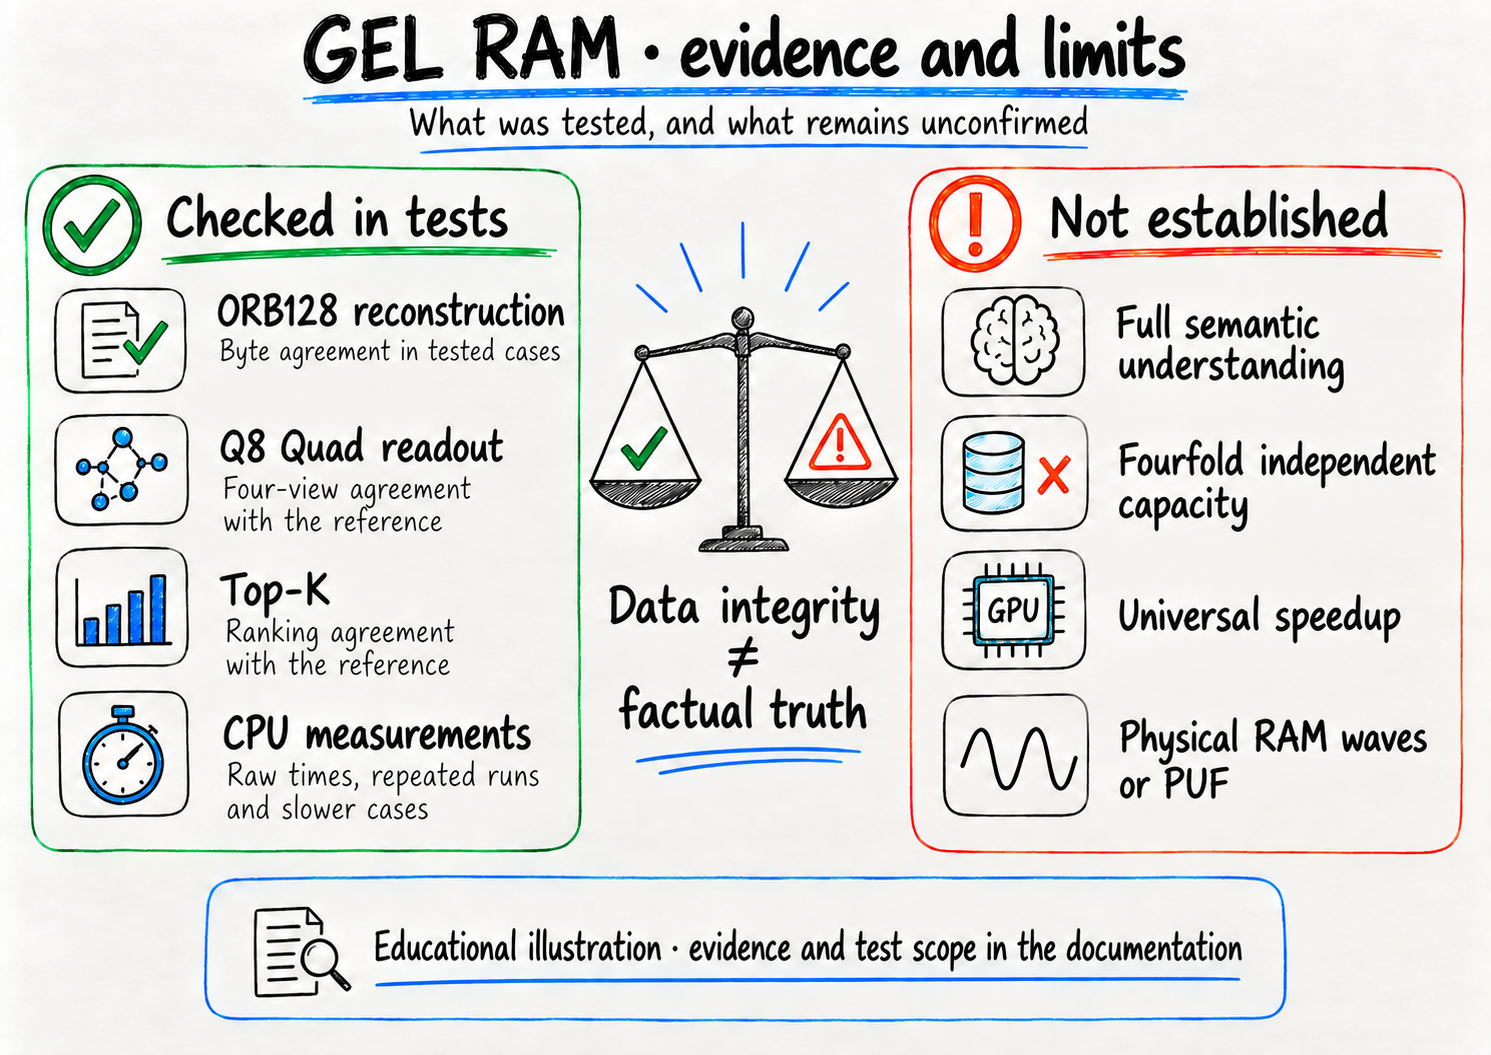
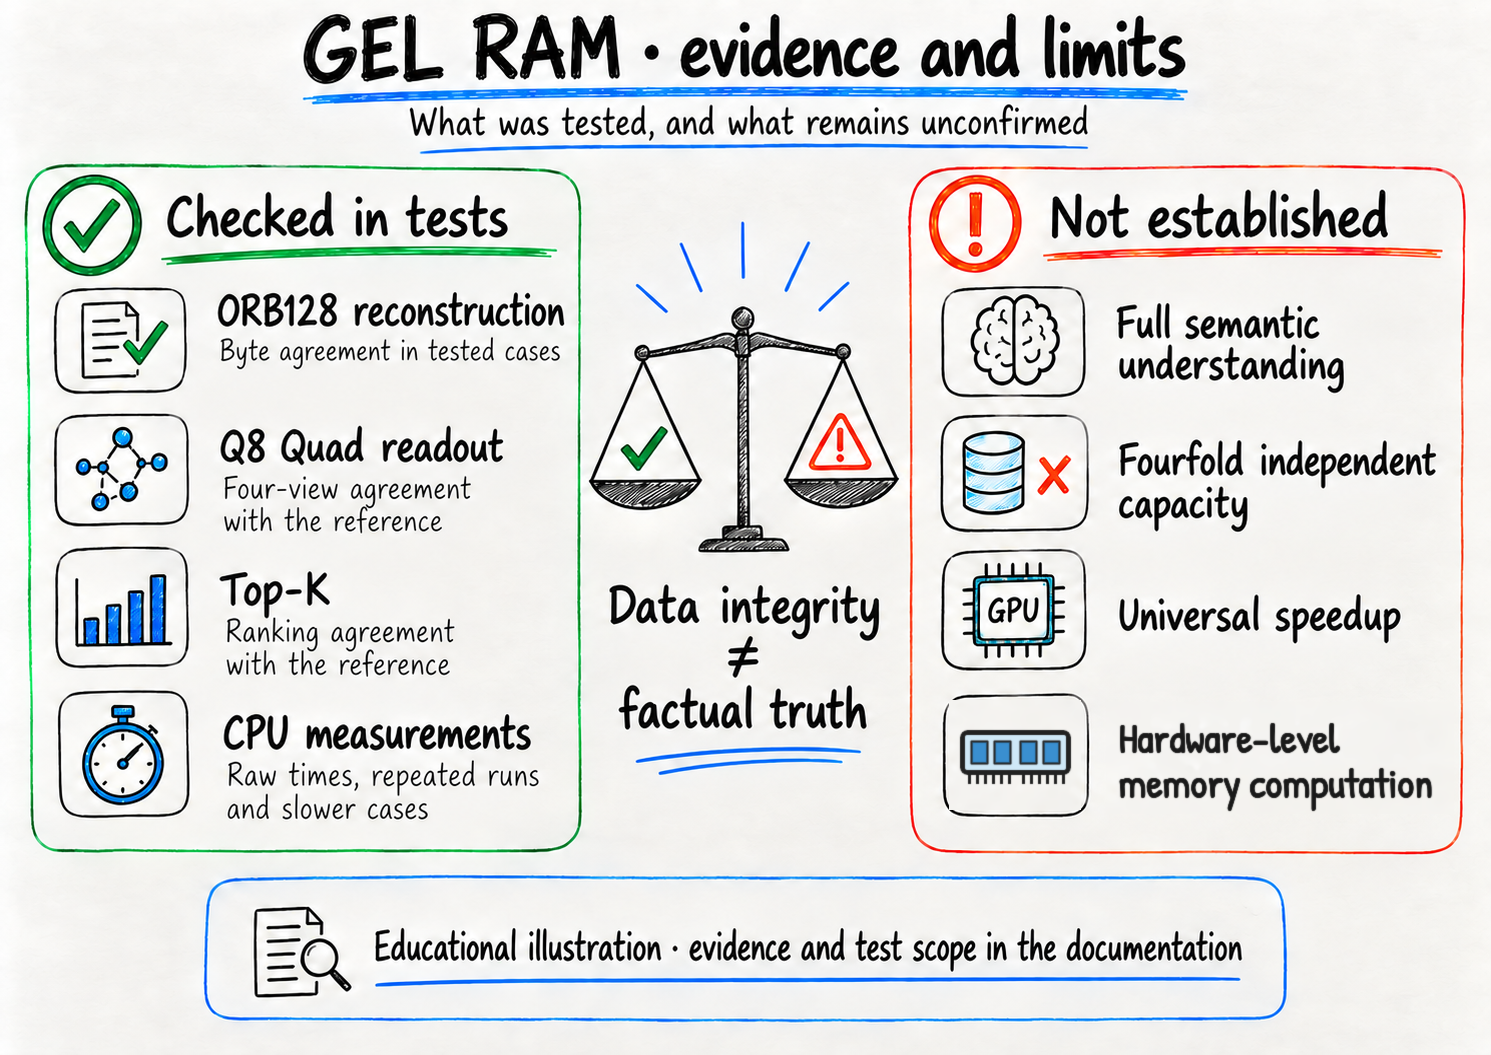
docs: generalize hardware limitation wording and sync release notes (#23)
Limitation statements that named specific physical memory phenomena now use
one general term, hardware-level memory computation, across README, docs,
historical notes and one review fixture. The fourth "not established" row of
the two evidence-and-limits illustrations is edited to match (pixels outside
that row are unchanged) and their reviewed pins are updated. Documents kept
as written say so; the fixture provenance records the old and new SHA-256.

The v0.5.0 release notes now cover the author-run measurements, the
supplied-source diagnostic and the 3D README graphics, and point the
sketch-search bullet at its measurement document.

Changed region(s): [[0.617, 0.6673, 0.9564, 0.7583]]

diff --git a/tools/readme_presentation.rs b/tools/readme_presentation.rs
@@ -258,12 +258,12 @@ The logical ranking bank contains **1M fragments across four 250k slots**;
 these probes do **not** search all 1M candidates. One empty probe remains in
 the quality denominator. Integrity controls use a separate 1,000-fragment
 PL/EN catalog, not the million-record bank. The gate is an experimental
-CPU adapter, tested offline in a Linux sandbox, not a deployed API hybrid.
+CPU adapter, tested offline in a Linux sandbox, not a deployed service.
 
 Percentiles use nearest-rank; with N=40, p99 is the maximum. These are
 single-host diagnostic runs, not independently replicated measurements.
 Matching source bytes does not establish truth or understanding.
-Neither physical DRAM-refresh computation nor a speedup over LLMs is
+Neither hardware-level memory computation nor a speedup over LLMs is
 established by these tests.
 
 The underlying logs and private harness remain outside this checkout.
@@ -294,7 +294,7 @@ Its microsecond times measure parsing and abstention, not successful semantic
 decisions; the 2/6 agreement is the always-UNKNOWN baseline.
 Groq times include HTTP/network and generation. There is **no justified
 GEL/LLM speedup multiplier** here, and N=1 does not support latency percentiles.
-The adapter is not the full GEL chat or an Ocean retrieval benchmark.
+The adapter is not a complete GEL application or an Ocean retrieval benchmark.
 
 Earlier 20B and 120B PL attempts were incomplete at the 1024-token limit
 (1383.914 ms and 2407.528 ms). They are retained in the

diff --git a/xtask/src/main.rs b/xtask/src/main.rs
@@ -280,7 +280,7 @@ const REVIEWED_ASSETS: &[(&str, &str)] = &[
     ),
     (
         "docs/images/evidence-limits-en.png",
[2 lines of base64/hex data omitted]
     ),
     (
         "docs/images/q8-four-views-pl.png",
@@ -288,7 +288,7 @@ const REVIEWED_ASSETS: &[(&str, &str)] = &[
     ),
     (
         "docs/images/evidence-limits-pl.png",
[2 lines of base64/hex data omitted]
     ),
 ];
 const ALLOWED_EXTENSIONLESS: &[&str] = &[

diff --git a/docs/VISUAL-PROMPTS.md b/docs/VISUAL-PROMPTS.md
@@ -5,7 +5,10 @@ Polish raster sketches were the respective edit targets; no private code or
 corpus was supplied. Outputs were visually reviewed before release. These
 prompts are production notes, not executable instructions or test results.
 The project uses the resulting PNG files, not runtime image generation.
-Private version labels in these notes are generalized; the released artwork is unchanged.
+Private version labels in these notes are generalized. On 2026-09-27 the fourth
+"not established" row of both evidence-and-limits images was replaced by a local
+edit (new wording and icon); the prompts below quote that current wording. The
+rest of the released artwork is unchanged.
 
 ## Q8 four views
 
@@ -20,7 +23,7 @@ Each panel has the same exact caption: "Pełny rekord w innych współrzędnych"
 Below center, prominent two-line text: "Ta sama transformacja zapytania i rekordu" / "Zachowana zgodność wyniku odczytu".
 Bottom two clear callouts: "4 widoki ≠ 4 niezależne dane" and "Q8: 256 poziomów fazy".
 Bottom footer exact: "Schemat koncepcyjny · nie obraz fizycznego RAM".
-Do NOT include any other text from the original, no phases positive-only or negative-only, no independent truths, no claims of 4x capacity or 4x speed, no physical-wave measurement claim, no PASS seal, no internal schema, no private implementation details. Blue/red dots are decorative phase symbols only, not parity nodes. Use readable accurate Polish accents. This is an educational raster illustration, not a measurement chart.
+Do NOT include any other text from the original, no phases positive-only or negative-only, no independent truths, no claims of 4x capacity or 4x speed, no hardware-level memory claim, no PASS seal, no internal schema, no private implementation details. Blue/red dots are decorative phase symbols only, not parity nodes. Use readable accurate Polish accents. This is an educational raster illustration, not a measurement chart.
 ```
 
 ## Evidence and limits
@@ -41,10 +44,10 @@ Right four rows with simple caution icons:
 "Pełnego rozumienia wiedzy"
 "Czterokrotnej niezależnej pojemności"
 "Uniwersalnego przyspieszenia"
-"Sprzętowych fal RAM ani PUF"
+"Obliczeń sprzętowych w pamięci"
 Center or bottom highlighted callout: "Zgodność danych ≠ prawdziwość informacji"
 Footer: "Ilustracja edukacyjna · dowody i zakres testów w dokumentacji"
-No claims of independent external validation, identical benchmark times, GPU superiority, production P2P or real physical wave manipulation. No exact unknown numerical results. No hidden architecture, private data or source code. Preserve clarity and Polish accents.
+No claims of independent external validation, identical benchmark times, GPU superiority, production P2P or real hardware-level memory manipulation. No exact unknown numerical results. No hidden architecture, private data or source code. Preserve clarity and Polish accents.
 ```
 
 ## Review notes
@@ -93,7 +96,7 @@ Right rows:
 "Full semantic understanding"
 "Fourfold independent capacity"
 "Universal speedup"
-"Physical RAM waves or PUF"
+"Hardware-level memory computation"
 Center callout: "Data integrity ≠ factual truth"
 Footer: "Educational illustration · evidence and test scope in the documentation"
 Remove every Polish word. No added performance numbers, no new claims of external independent validation, GPU experiments, private architecture or a deployed network. Retain the caution icon style; the CPU label and limits must stay explicit. Full uncropped landscape.

diff --git a/RELEASE-NOTES-v0.5.0.md b/RELEASE-NOTES-v0.5.0.md
@@ -61,10 +61,20 @@ moved from an example into the gel-phase-quad crate.
   answers are compared before any timing; 20 of 36 public queries give the same
   answer. On those, one host, GEL is slower: p50 72.7 ms against 62.8 ms for the
   whole process workload and 3.13 ms against 1.95 ms for the integrity check.
-- **GEL's own search path** ([README](README.md)): three replays of the private
-  sketch-search engine are shown next to the historical full-scan baseline as
-  author-reported numbers that cannot be re-run from this checkout. No speed-up
-  factor is claimed.
+- **GEL's own search path** ([measurements](docs/GEL-EXPERIMENTAL-MEASUREMENTS.md)):
+  three replays of the private compact-sketch search are documented next to the
+  historical full-scan baseline as author-reported numbers that cannot be
+  re-run from this checkout. No speed-up factor is claimed.
+- **Author-run measurements of a separate private implementation** ([README](README.md)):
+  resident reads at a known address, a source-integrity gate and Q8 ranking
+  within one known slot, each with its scope; these rows are not reproducible
+  from the public release.
+- **Supplied-source diagnostic against models served by Groq**
+  ([diagnostic](docs/GEL-GROQ-DIAGNOSTIC.md)): twelve development claims, one
+  timed batch per language and profile. The bounded GEL adapter returned
+  UNKNOWN for every claim because the grammar was unsupported, so its
+  microsecond times measure parsing and abstention; no GEL/LLM speed-up
+  multiplier is claimed.
 - **Cost of one collection change** ([mutation comparison](docs/MUTATION-COMPARISON.md)):
   paired timing and the resident-set peak of one change in fresh processes,
   with the peak reset before the change (`xtask mutation-campaign`).
@@ -82,15 +92,21 @@ not code-signed or notarized and are checked only on their build runners.
 
 ## Documentation
 
-- The README opens with a light and dark header, an animated diagram of the
+- The README opens with a light and dark header, an animated 3D scene of the
   citation check (drawn, not recorded; it stops under reduced motion), a strip
   of checked facts whose numbers the builder reads from the property map and
   the mutation matrix, and six short replays of recorded public workflows with
   colour-coded badges ([gallery](media/gifs/README.md)); each replay is labelled
-  as an edited log replay, not wall time. A script-free full-page edition,
+  as an edited log replay, not wall time. A section on the public checks draws
+  the property map across the three CI platforms (the rule the CI evidence
+  collector enforces, not a run result) and the committed mutation report as
+  3D graphics, read from those files. A script-free full-page edition,
   [README-MULTIMEDIA.html](README-MULTIMEDIA.html), opens from a checkout without
   network access ([presentation guide](docs/README-PRESENTATION.md)).
-- Public limits are stated without naming private components.
+- Public limits are stated without naming private components. Limitation
+  statements across the documentation and one review fixture now use one
+  general term, hardware-level memory computation; the fourth row of the two
+  evidence-and-limits illustrations was edited to match, not regenerated.
 - The update, restart and corrupted-copy scenario is shown as one still of its
   final screen.
 - The two private application previews are described by scope and limits

diff --git a/docs/ILLUSTRATED-GUIDE.md b/docs/ILLUSTRATED-GUIDE.md
@@ -31,24 +31,24 @@ independent files in one record. Numeric exactness after quantization does not
 make quantization itself lossless.
 
 See the [Q8 contract](Q8-QUAD.md), [interactive Rust demo](PUBLIC-DEMO.md#interactive-q8)
-and [binary format](FORMAT.md). The wave-shaped lines and fixed central point
-are a visual metaphor, not an assertion about physical memory hardware.
+and [binary format](FORMAT.md). The curved lines and fixed central point
+are a visual metaphor for phase codes, not a picture of hardware.
 
 ## Evidence and limits
 
 ### English — evidence
 
-![Tests check ORB128 bytes, Q8 view scores and Top-K against references. CPU timings retain slower cases. This is not proof of semantics, independent capacity x4, universal speedup or physical RAM PUF.](images/evidence-limits-en.png)
+![Tests check ORB128 bytes, Q8 view scores and Top-K against references. CPU timings retain slower cases. This is not proof of semantics, independent capacity x4, universal speedup or hardware-level memory computation.](images/evidence-limits-en.png)
 
 ### Polski — dowody
 
-![GEL RAM: zgodność bajtów ORB128, widoków Q8 i rankingu Top-K z referencją w testach; surowe pomiary CPU. Brak twierdzenia o pełnej semantyce, pojemności 4x, uniwersalnym przyspieszeniu lub sprzętowym PUF.](images/evidence-limits-pl.png)
+![GEL RAM: zgodność bajtów ORB128, widoków Q8 i rankingu Top-K z referencją w testach; surowe pomiary CPU. Brak twierdzenia o pełnej semantyce, pojemności 4x, uniwersalnym przyspieszeniu lub obliczeniach sprzętowych w pamięci.](images/evidence-limits-pl.png)
 
 **English text equivalent.** The tests check ORB128 byte reconstruction, Q8
 view-score equivalence and Top-K agreement with a reference. CPU measurements
 retain raw durations, repetitions and slower cases. These are not tests of full
 semantic understanding, universal acceleration, fourfold independent capacity,
-physical RAM waves or a hardware fingerprint. The GPU-shaped caution icon does
+hardware-level memory computation or hardware identity. The GPU-shaped caution icon does
 not represent a GPU experiment: the reported timing campaign is CPU-only.
 
 Integrity is not truth: matching an approved source proves byte correspondence,

diff --git a/README.md b/README.md
@@ -100,12 +100,12 @@ The logical ranking bank contains **1M fragments across four 250k slots**;
 these probes do **not** search all 1M candidates. One empty probe remains in
 the quality denominator. Integrity controls use a separate 1,000-fragment
 PL/EN catalog, not the million-record bank. The gate is an experimental
-CPU adapter, tested offline in a Linux sandbox, not a deployed API hybrid.
+CPU adapter, tested offline in a Linux sandbox, not a deployed service.
 
 Percentiles use nearest-rank; with N=40, p99 is the maximum. These are
 single-host diagnostic runs, not independently replicated measurements.
 Matching source bytes does not establish truth or understanding.
-Neither physical DRAM-refresh computation nor a speedup over LLMs is
+Neither hardware-level memory computation nor a speedup over LLMs is
 established by these tests.
 
 The underlying logs and private harness remain outside this checkout.
@@ -136,7 +136,7 @@ Its microsecond times measure parsing and abstention, not successful semantic
 decisions; the 2/6 agreement is the always-UNKNOWN baseline.
 Groq times include HTTP/network and generation. There is **no justified
 GEL/LLM speedup multiplier** here, and N=1 does not support latency percentiles.
-The adapter is not the full GEL chat or an Ocean retrieval benchmark.
+The adapter is not a complete GEL application or an Ocean retrieval benchmark.
 
 Earlier 20B and 120B PL attempts were incomplete at the 1024-token limit
 (1383.914 ms and 2407.528 ms). They are retained in the

diff --git a/RELEASE-NOTES-v0.4.0-RC.md b/RELEASE-NOTES-v0.4.0-RC.md
@@ -1,7 +1,8 @@
 # v0.4.0 candidate — Evidence Lab
 
 Historical candidate notes, kept as written for rc.1. The final notes are
-[RELEASE-NOTES-v0.4.0.md](RELEASE-NOTES-v0.4.0.md).
+[RELEASE-NOTES-v0.4.0.md](RELEASE-NOTES-v0.4.0.md). On 2026-09-27 one limitation phrase
+was reworded in general terms.
 
 Workspace version: **0.4.0-rc.1** (public main since PR #9). Target: v0.4.0.
 Approved for public main integration after checks; not approved for a final release.
@@ -57,8 +58,8 @@ Older Linux/Windows/macOS results cannot certify these new bytes. Native
 Linux/Windows/macOS results for the PR #9 head are pinned in
 [the platform record](docs/PLATFORM-REVIEW.md); every later revision needs its
 own per-platform [CI evidence](docs/CI-EVIDENCE.md).
-No semantic chatbot, encrypted private vault, private speaker, physical DRAM
-synchronization or fourfold independent information capacity is claimed.
+No semantic chatbot, encrypted private vault, private speaker, hardware-level
+memory computation or fourfold independent information capacity is claimed.
 
 PUBLICATION_APPROVED=YES (public main integration)
 TAG_CREATED=NO

diff --git a/crates/gel-source/fixtures/collection-review/PROVENANCE.md b/crates/gel-source/fixtures/collection-review/PROVENANCE.md
@@ -13,7 +13,12 @@ blind independent evaluation, human review, semantic benchmark or new web crawl.
 - source-builder.txt: frozen project documentation, SHA256
[1 lines of base64/hex data omitted]
 - ocean-scale.txt: frozen project documentation, SHA256
[2 lines of base64/hex data omitted]
+  On 2026-09-27 one limitation sentence (line 76) was reworded to general
+  terms; no case query or expected document changed. Outputs recorded before
+  then report the earlier SHA256
[1 lines of base64/hex data omitted]
+  (5,664 bytes).
 - unicode.txt: authored synthetic fixture, NOT a real-world document benchmark,
[1 lines of base64/hex data omitted]
 

diff --git a/README-HISTORY-R2.md b/README-HISTORY-R2.md
@@ -3,6 +3,7 @@
 > **Historical document** from the v0.2.x period, kept as written. Where it says
 > "this public tree" or names the license, it describes that earlier tree. The
 > current tree's license is [LICENSE](LICENSE); see [LICENSING](LICENSING.md).
+> On 2026-09-27 one limitation phrase was reworded in general terms.
 
 ## Local Q8 evidence candidate — not a tagged release
 
@@ -71,8 +72,8 @@ flowchart LR
 ```
 
 Matching reversible transforms are applied to both query and candidate.
-This diagram describes equivalent readouts, not four independent facts or a
-physical analog-wave circuit.
+This diagram describes equivalent readouts, not four independent facts or
+hardware-level memory computation.
 
 | Record payload | One canonical Q8 record | Shared Q8 Quad | Four packed copies |
 | :--- | ---: | ---: | ---: |

diff --git a/docs/ARCHITECTURE.md b/docs/ARCHITECTURE.md
@@ -33,8 +33,8 @@ views. Archive and BodyActivity have distinct mask semantics; see the contract.
 This is separate from the 128-byte binary ORB and v2 store shown above: no Q8
 persistence format or automatic text-to-phase encoder is added. Shared
 scoring only applies to equivalent views of the same contents, not four
-different records. The public module does not implement a physical analog
-wave circuit or native knowledge inference. Worker budgets are bounded per
+different records. The public module does not implement hardware-level
+memory computation or native knowledge inference. Worker budgets are bounded per
 call; serial fallback handles worker-start refusal, not every panic or OOM.
 
 ## Two axes of progressive work

diff --git a/docs/LIVE-LAB.md b/docs/LIVE-LAB.md
@@ -50,7 +50,7 @@ Four colored rows show the first 16 phase codes in four reversible coordinate
 views. `view 0..3` highlights a row, `phase 0..255` shifts the body phase,
 `mask 0..1024` changes active-mask stride (0 disables all body dimensions), and
 `noise 0..1024` perturbs that many dimensions. All four inverses are checked.
-Each color is a deterministic display of a phase code, not a measured RAM waveform.
+Each color is a deterministic display of a phase code, not a hardware measurement.
 
 The public Record occupies 1152 bytes (1024 phase bytes plus 128 mask bytes).
 256 means the number of phase levels, **not the record's bit length**. The displayed

diff --git a/RELEASE-NOTES-SOURCE-CANDIDATE.md b/RELEASE-NOTES-SOURCE-CANDIDATE.md
@@ -51,7 +51,7 @@ directory must not exist. See [validation](docs/SOURCE-CANDIDATE-VALIDATION.md).
 ## Not included or claimed
 
 No new Q8 scoring formula, semantic accuracy result, compression claim, private
-encoder, speaker, multimedia bank, P2P service or physical DRAM synchronization.
+encoder, speaker, multimedia bank, P2P service or hardware-level memory computation.
 Real text readout and numeric Q8 views remain separate demonstrations. Earlier
 performance results belong to their recorded revisions and inputs, not a new
 speedup of the multipart API. No claim of general security or legal certification.
